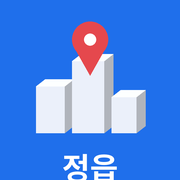
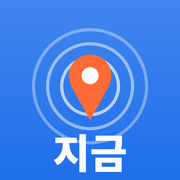
v46: 새 앱 아이콘(파동 핀 + 지금)
Claude-Session: https://claude.ai/code/session_012AGESeru7GzB2XuXiUkJmq

diff --git a/index.html b/index.html
@@ -11,7 +11,7 @@
 <meta name="apple-mobile-web-app-title" content="정읍지도">
 <link rel="apple-touch-icon" href="icons/user-apple-180.png">
 <link href="https://unpkg.com/maplibre-gl@4.7.1/dist/maplibre-gl.css" rel="stylesheet">
-<link rel="stylesheet" href="style.css?v=45">
+<link rel="stylesheet" href="style.css?v=46">
 </head>
 <body>
 <div id="map"></div>
@@ -69,7 +69,7 @@
 <div id="ch-name" hidden></div>
 <a id="live-exit" href="./">방송 모드 끄기 (Esc)</a>
 <div id="tut" hidden><div id="tut-hole"></div><div id="tut-tip"><div id="tut-txt"></div><div id="tut-row"><span id="tut-n"></span><button id="tut-skip">건너뛰기</button><button id="tut-next">다음</button></div></div></div>
-<div id="ver">v45</div>
+<div id="ver">v46</div>
 <div id="comm" hidden>
   <div class="comm-top"><button id="comm-back" class="chip">← 지도</button><strong>정읍 이야기</strong><button id="comm-refresh" class="chip">🔄</button></div>
   <div id="comm-tabs"><button data-t="news" class="on">💬 소식</button><button data-t="job">💼 알바</button><button data-t="used">🛒 중고</button><button data-t="home">🏠 부동산</button></div>
@@ -83,7 +83,7 @@
 
 <script src="https://unpkg.com/maplibre-gl@4.7.1/dist/maplibre-gl.js"></script>
 <script src="https://cdn.jsdelivr.net/npm/@supabase/supabase-js@2"></script>
-<script src="data.js?v=45"></script>
-<script src="app.js?v=45"></script>
+<script src="data.js?v=46"></script>
+<script src="app.js?v=46"></script>
 </body>
 </html>

diff --git a/sw.js b/sw.js
@@ -1,4 +1,4 @@
-const CACHE="jeongeup-v26";
+const CACHE="jeongeup-v27";
 const SHELL=["./","index.html","admin.html","style.css","data.js","app.js","manifest.json","admin-manifest.json"];
 self.addEventListener("install",e=>{e.waitUntil(caches.open(CACHE).then(c=>c.addAll(SHELL)).catch(()=>{}));self.skipWaiting();});
 self.addEventListener("activate",e=>{e.waitUntil(caches.keys().then(k=>Promise.all(k.filter(x=>x!==CACHE).map(x=>caches.delete(x)))).then(()=>self.clients.claim()));});
